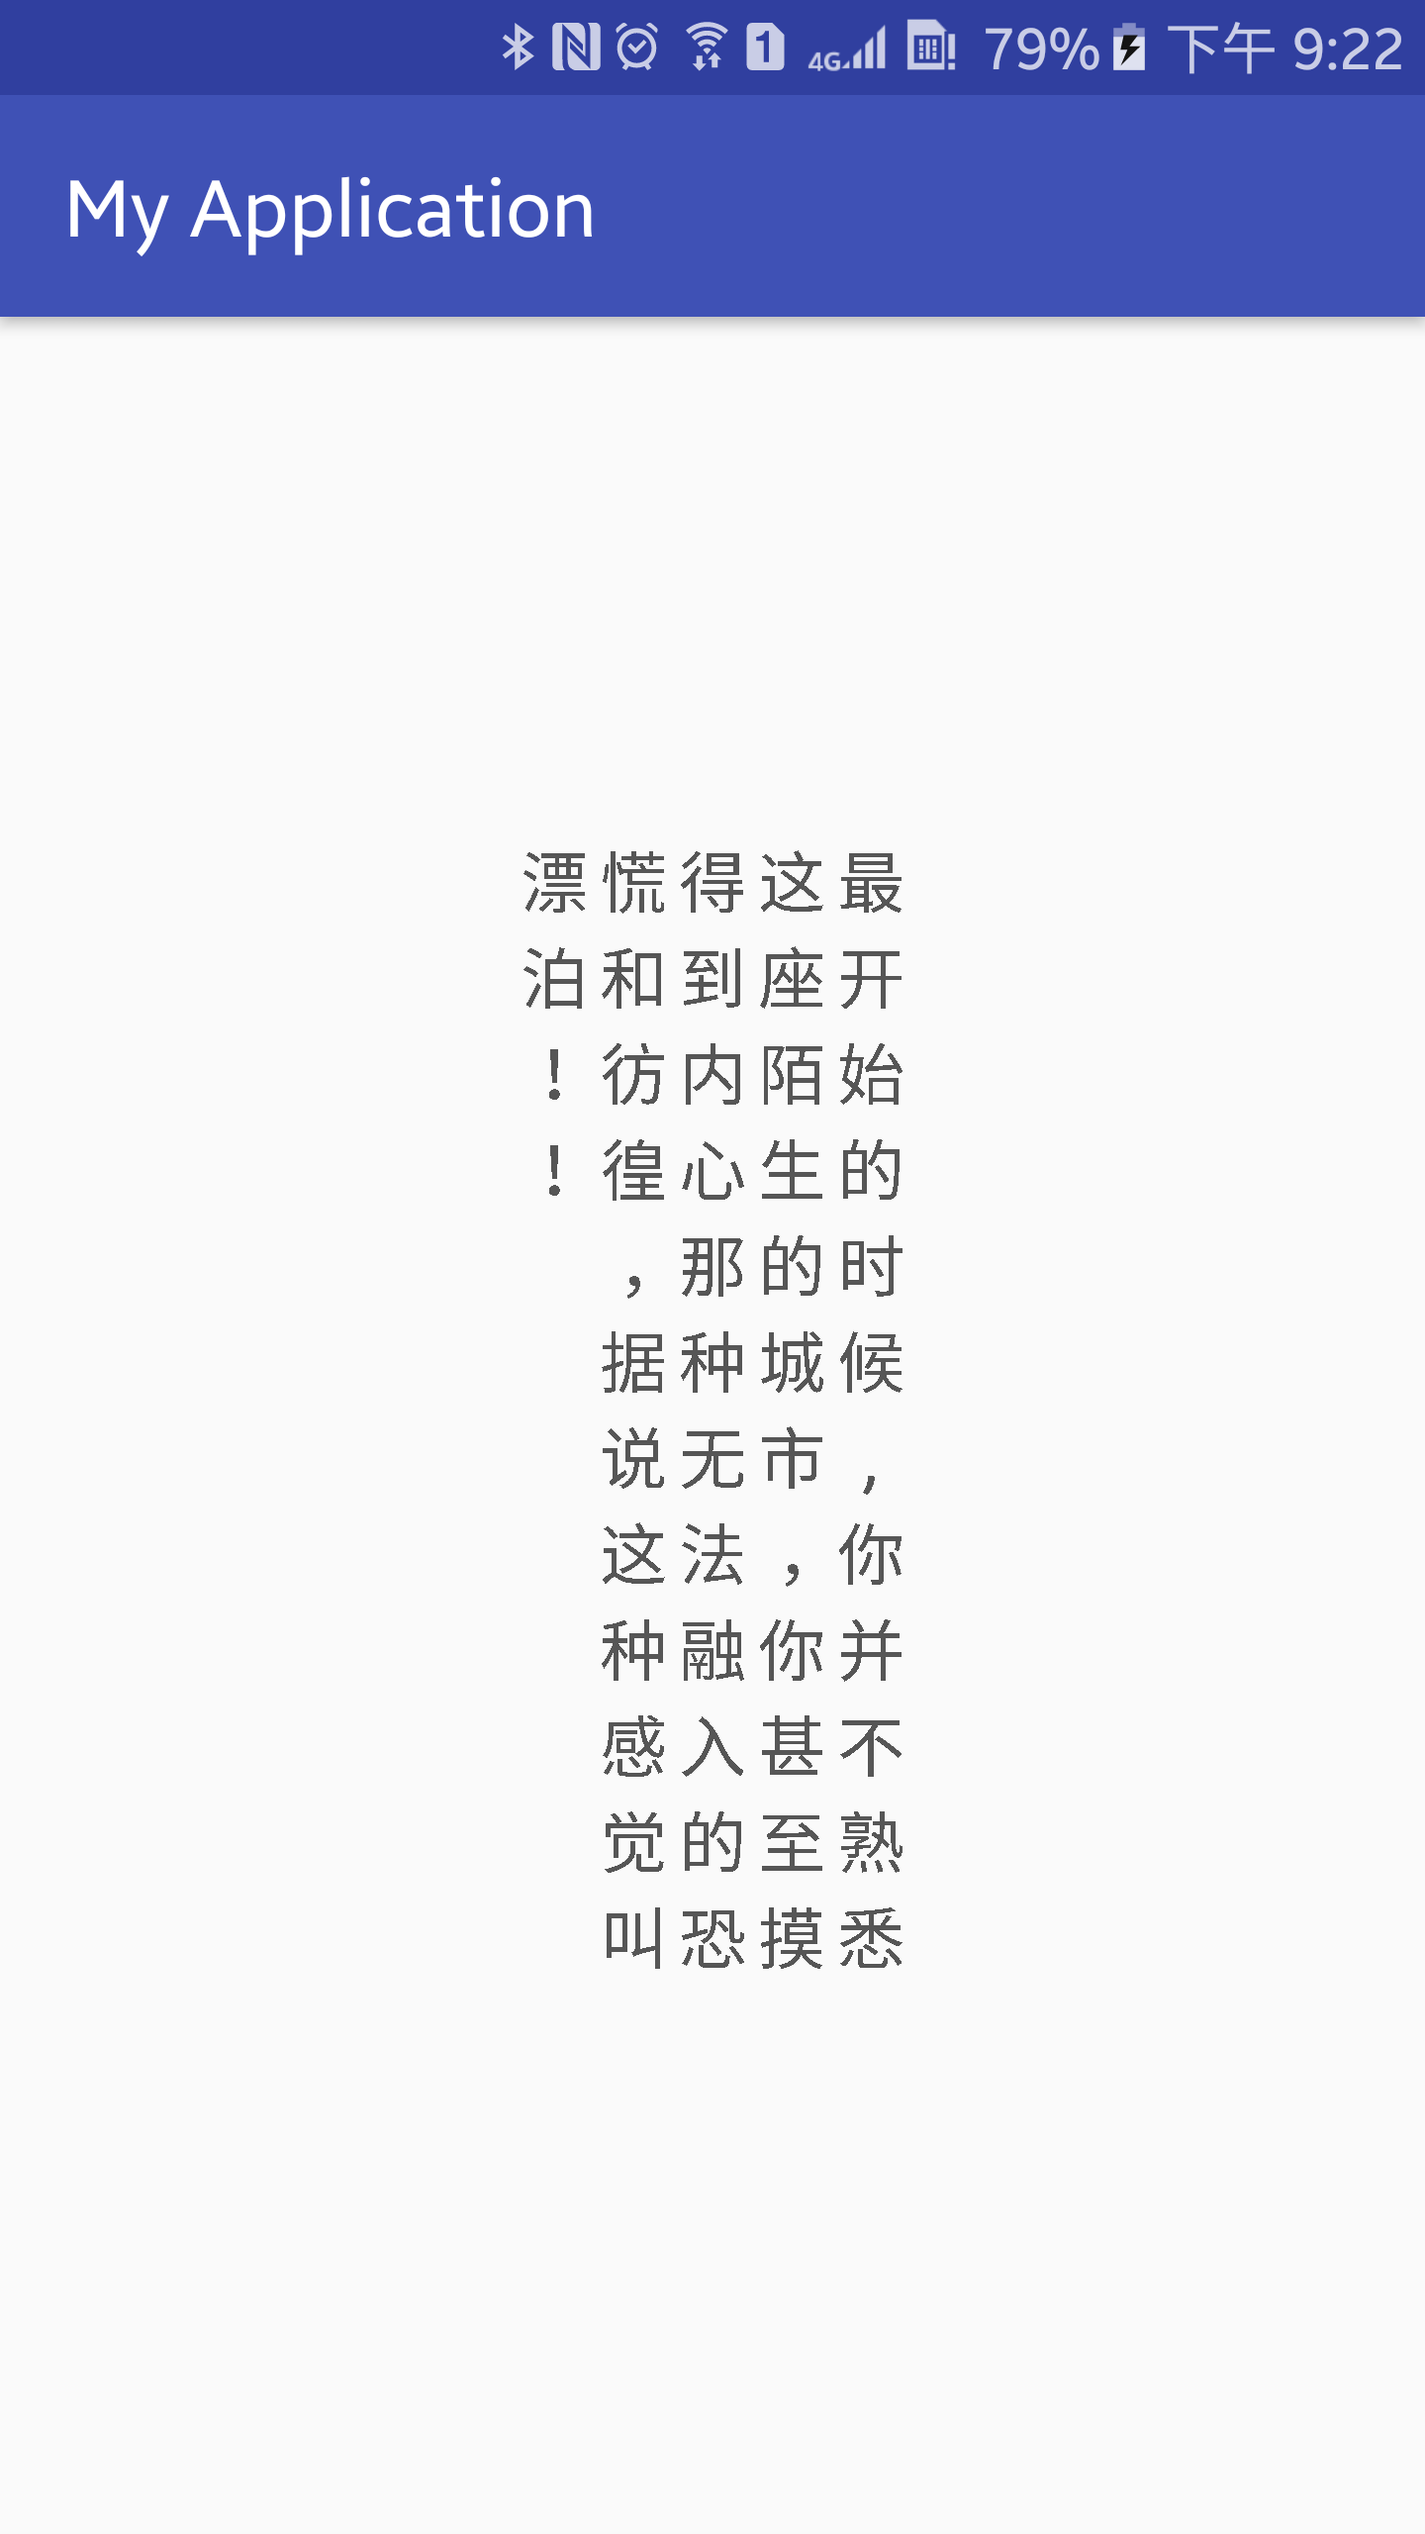
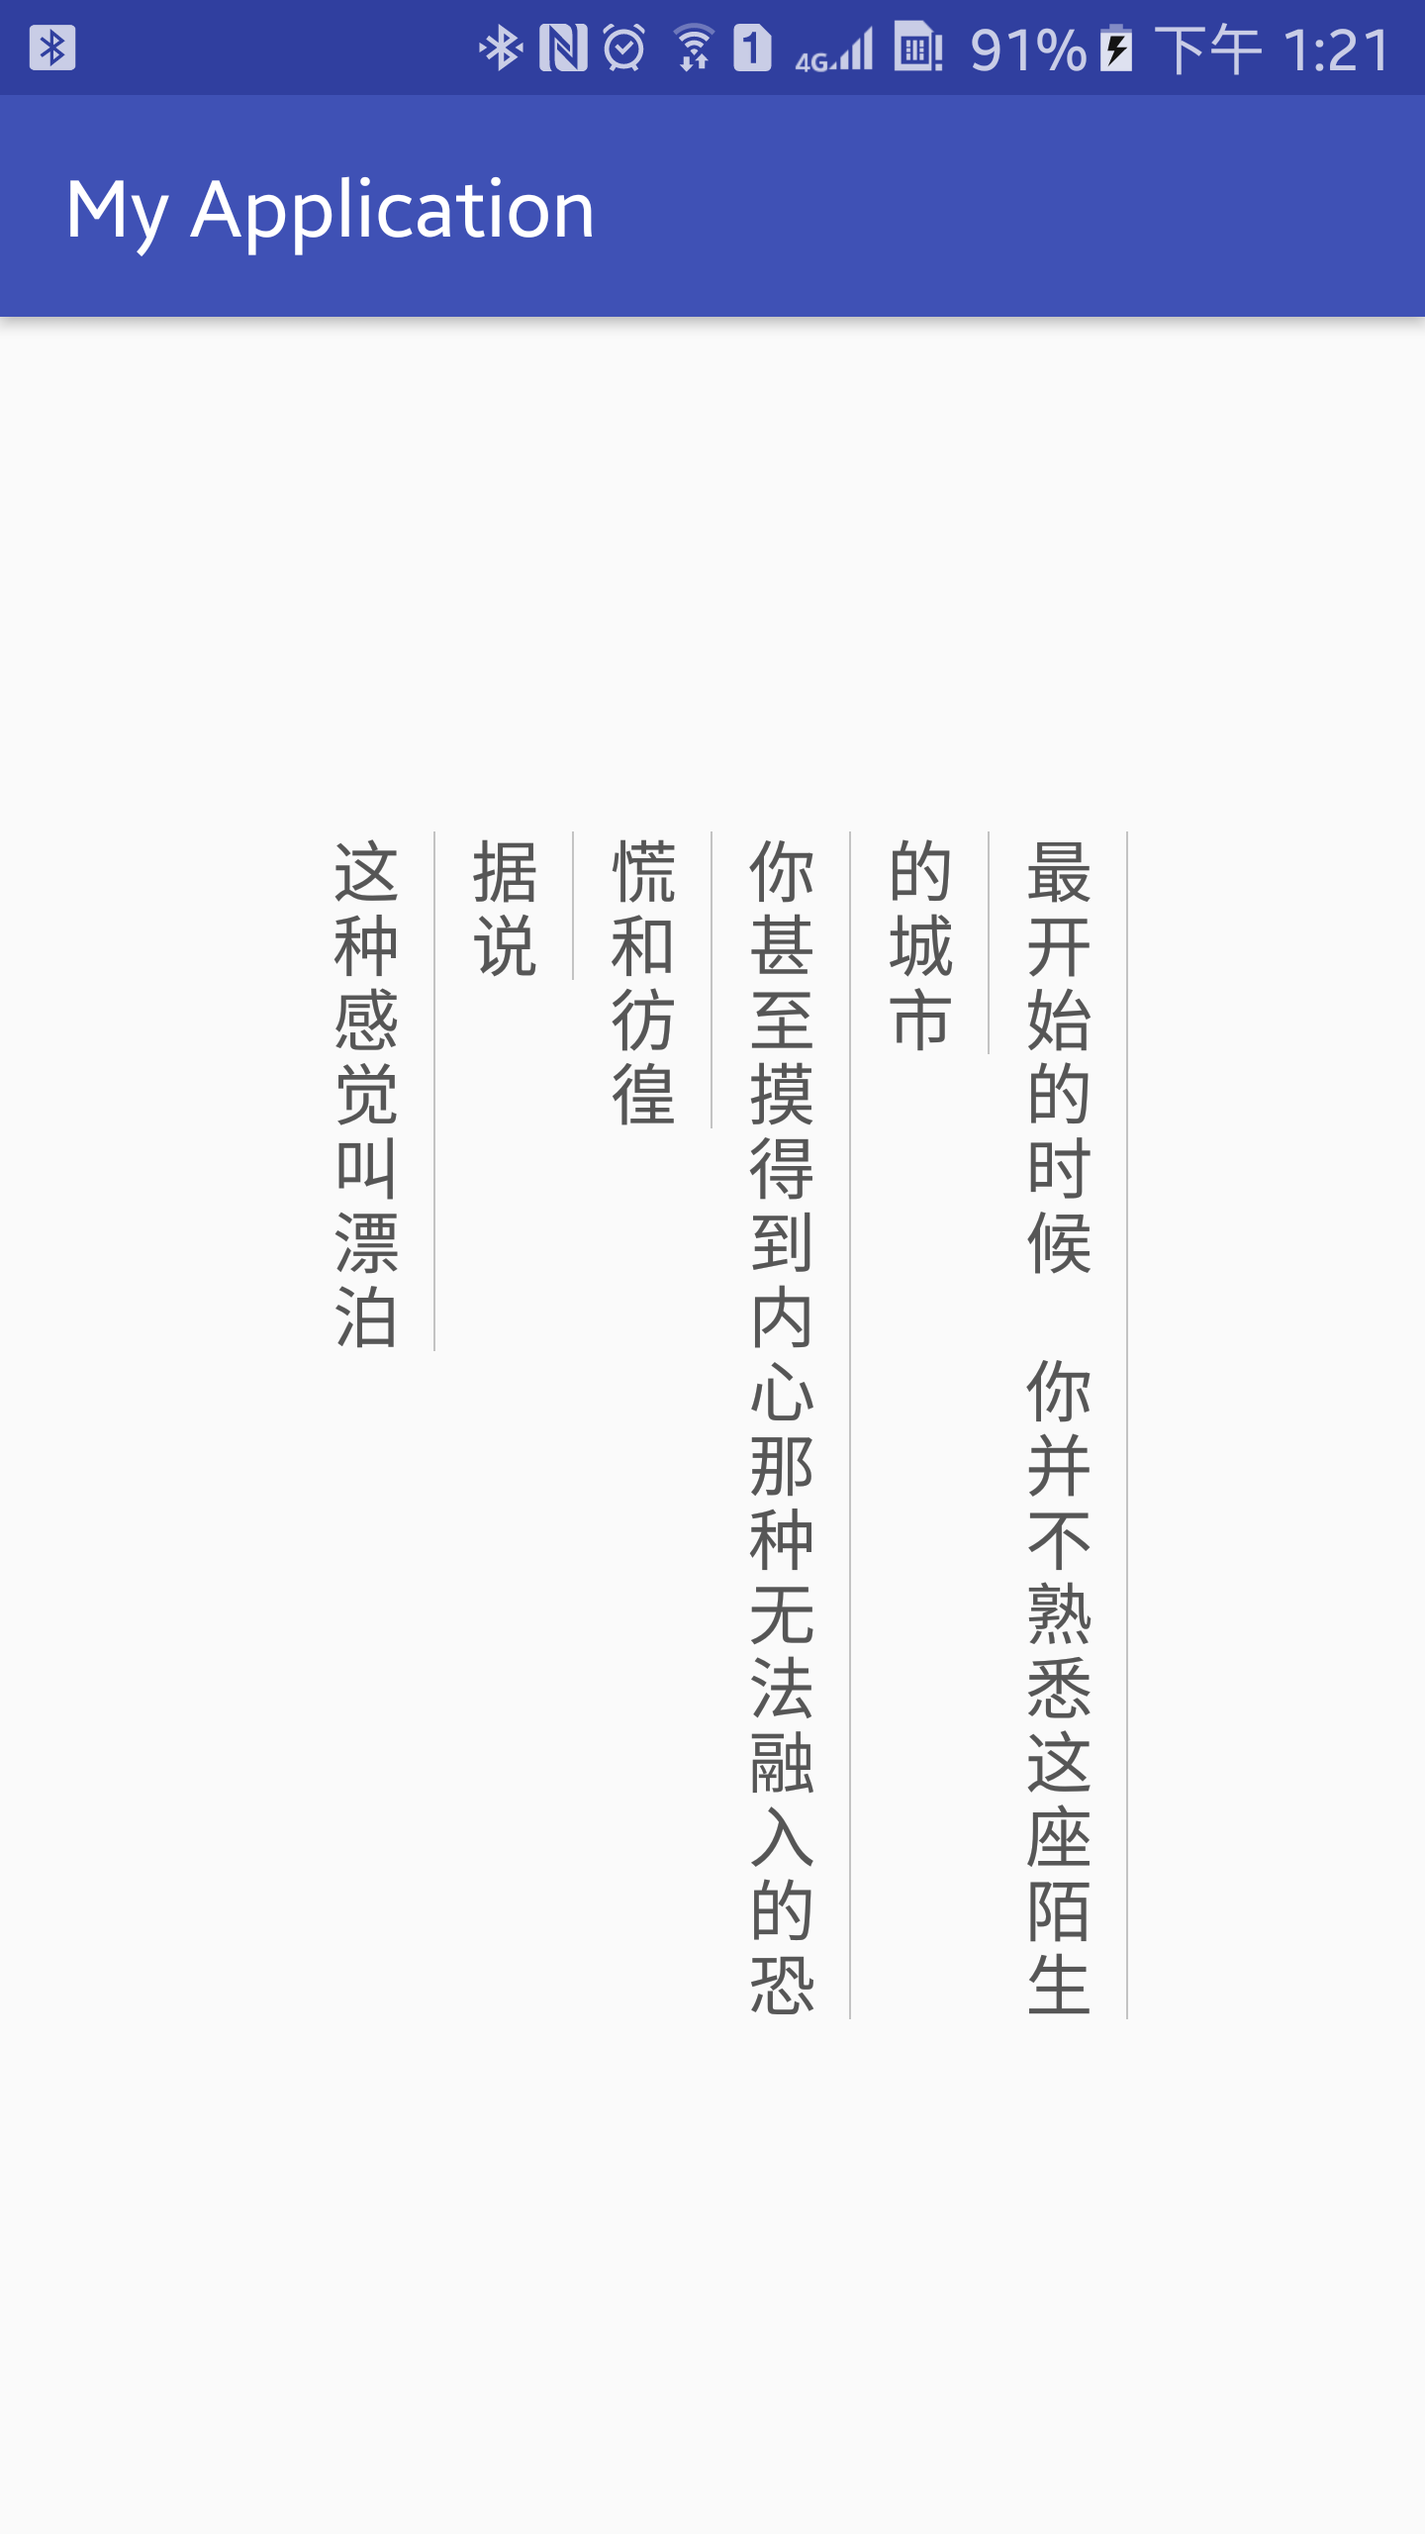
添加文字边线和分隔符功能

diff --git a/verticaltextviewlibrary/src/main/java/com/tenny/mystory/TextViewVertical.java b/verticaltextviewlibrary/src/main/java/com/tenny/mystory/TextViewVertical.java
@@ -1,10 +1,12 @@
-package com.tenny.mystory;
+package com.tenny.mystory;
 
 import android.content.Context;
 import android.content.res.TypedArray;
 import android.graphics.Canvas;
 import android.graphics.Color;
 import android.graphics.Paint;
+import android.graphics.Path;
+import android.graphics.Rect;
 import android.graphics.RectF;
 import android.graphics.Typeface;
 import android.support.annotation.IntDef;
@@ -14,21 +16,39 @@ import android.view.View;
 
 import java.lang.annotation.Retention;
 import java.lang.annotation.RetentionPolicy;
+import java.util.Arrays;
 
 public class TextViewVertical extends View {
 
     public static final int START_LEFT = 1;
     public static final int START_RIGHT = 2;
 
+    public static final int NONE = 0;
+    public static final int RIGHT_LINE = 2;
+    public static final int LEFT_LINE = 1;
+
+
     @IntDef({START_LEFT, START_RIGHT})
     @Retention(RetentionPolicy.SOURCE)
     public @interface START_ORIENTATION {
     }
 
+    @IntDef({NONE, RIGHT_LINE, LEFT_LINE})
+    @Retention(RetentionPolicy.SOURCE)
+    public @interface LINE_ORIENTATION {
+    }
+
     private float textSize = 56;
     private int textColor = Color.BLACK;
     private String text = "";
-    private int start = START_LEFT;
+    private int startOrientation = START_LEFT;
+    private int lineOrientation = NONE;
+    private float lineWidth = dip2px(getContext(), 0.5f);
+    private int lineColor = Color.BLACK;
+    private String cutChars;
+    private float textHorizontalMargin = dip2px(getContext(), 4);
+    private float textVerticalMargin = dip2px(getContext(), 3);
+    private float line2TextMargin = -1;
 
     Paint paint;
     int width;
@@ -41,18 +61,33 @@ public class TextViewVertical extends View {
 
     public TextViewVertical(Context context, AttributeSet attrs) {
         super(context, attrs);
+
         TypedArray typedArray = context.obtainStyledAttributes(attrs, R.styleable.TextViewVertical);
         int count = typedArray.getIndexCount();
         for (int i = 0; i < count; i++) {
             int index = typedArray.getIndex(i);
             if (index == R.styleable.TextViewVertical_v_start) {
-                start = typedArray.getInt(index, START_LEFT);
+                startOrientation = typedArray.getInt(index, START_LEFT);
             } else if (index == R.styleable.TextViewVertical_v_text) {
                 text = typedArray.getString(index);
             } else if (index == R.styleable.TextViewVertical_v_textColor) {
                 textColor = typedArray.getColor(index, Color.BLACK);
             } else if (index == R.styleable.TextViewVertical_v_textSize) {
                 textSize = typedArray.getDimension(index, 16);
+            } else if (index == R.styleable.TextViewVertical_v_cutChars) {
+                cutChars = typedArray.getString(index);
+            } else if (index == R.styleable.TextViewVertical_v_textVerticalMargin) {
+                textVerticalMargin = typedArray.getDimension(index, textVerticalMargin);
+            } else if (index == R.styleable.TextViewVertical_v_textHorizontalMargin) {
+                textHorizontalMargin = typedArray.getDimension(index, textHorizontalMargin);
+            } else if (index == R.styleable.TextViewVertical_v_line) {
+                lineOrientation = typedArray.getInt(index, NONE);
+            } else if (index == R.styleable.TextViewVertical_v_lineWidth) {
+                lineWidth = typedArray.getDimension(index, lineWidth);
+            } else if (index == R.styleable.TextViewVertical_v_lineColor) {
+                lineColor = typedArray.getColor(index, Color.BLACK);
+            } else if (index == R.styleable.TextViewVertical_v_line2TextMargin) {
+                line2TextMargin = textHorizontalMargin / 2 + lineWidth / 2 - typedArray.getDimension(index, 0);
             }
         }
         init();
@@ -84,8 +119,49 @@ public class TextViewVertical extends View {
         setMeasuredDimension(width, height);
     }
 
+    public void setLine2TextMargin(float line2TextMargin) {
+
+        this.line2TextMargin = textHorizontalMargin / 2 + lineWidth / 2 - line2TextMargin;
+        invalidate();
+    }
+
+    public void setStartOrientation(@LINE_ORIENTATION int startOrientation) {
+        this.startOrientation = startOrientation;
+        invalidate();
+    }
+
+    public void setLineWidth(float lineWidth) {
+        this.lineWidth = lineWidth;
+        invalidate();
+    }
+
+    public void setLineColor(int lineColor) {
+        this.lineColor = lineColor;
+        invalidate();
+    }
+
     public void setTypeface(Typeface typeface) {
         paint.setTypeface(typeface);
+        invalidate();
+    }
+
+    public void setTextHorizontalMargin(float textHorizontalMargin) {
+        this.textHorizontalMargin = textHorizontalMargin;
+        invalidate();
+    }
+
+    public void setTextVerticalMargin(float textVerticalMargin) {
+        this.textVerticalMargin = textVerticalMargin;
+        invalidate();
+    }
+
+    public void setLineOrientation(@LINE_ORIENTATION int lineOrientation) {
+        this.lineOrientation = lineOrientation;
+        invalidate();
+    }
+
+    public void setCutChars(String cutChars) {
+        this.cutChars = cutChars;
         invalidate();
     }
 
@@ -122,10 +198,10 @@ public class TextViewVertical extends View {
     /**
      * 设置文字起始方向
      *
-     * @param start
+     * @param startOrientation
      */
-    public void setStart(@START_ORIENTATION int start) {
-        this.start = start;
+    public void setStart(@START_ORIENTATION int startOrientation) {
+        this.startOrientation = startOrientation;
         invalidate();
     }
 
@@ -176,27 +252,44 @@ public class TextViewVertical extends View {
 
     private int getColNum() {
 
-
         int oneRowWordCount = getColWordCount();
-
-        int colNum = text.length() / oneRowWordCount;
-        if (text.length() % oneRowWordCount > 0) {
-            colNum++;
+        int colNum = 0;
+        if (cutChars != null) {
+            String[] textArray = text.split(cutChars);
+            for (int i = 0; i < textArray.length; i++) {
+                if (textArray[i].length() > oneRowWordCount) {
+                    colNum += textArray[i].length() / oneRowWordCount;
+                    if (textArray[i].length() % oneRowWordCount > 0) {
+                        colNum++;
+                    }
+                } else {
+                    colNum++;
+                }
+            }
+        } else {
+            colNum = text.length() / oneRowWordCount;
+            if (text.length() % oneRowWordCount > 0) {
+                colNum++;
+            }
         }
+
+
         return colNum;
     }
 
     private float getOneWordWidth() {
-        return paint.measureText("我") + dip2px(getContext(), 3);
+        return paint.measureText(getResources().getString(R.string.word)) + textHorizontalMargin;
     }
 
     private float getOneWordHeight() {
-        Paint.FontMetricsInt metricsInt = paint.getFontMetricsInt();
-        return (metricsInt.bottom - metricsInt.top);
+       /* Paint.FontMetricsInt metricsInt = paint.getFontMetricsInt();
+        return (metricsInt.bottom - metricsInt.top);*/
+        Rect rect = new Rect();
+        paint.getTextBounds(getResources().getString(R.string.word), 0, 1, rect);
+        return rect.height() + textVerticalMargin;
     }
 
     private int getColWordCount() {
-
         int oneLineWordCount = (int) (height / getOneWordHeight());
         return oneLineWordCount;
     }
@@ -206,31 +299,84 @@ public class TextViewVertical extends View {
         return (int) (dpValue * scale + 0.5f);
     }
 
+
     @Override
     protected void onDraw(Canvas canvas) {
         super.onDraw(canvas);
         int oneLineWordCount = getColWordCount();
-        int currentCol = 0;
+
         float w = getOneWordWidth();
         float h = getOneWordHeight();
 
         int colNum = getColNum();
-        for (int i = 0; i < text.length(); i++) {
-            int j = i % oneLineWordCount;
-            if (colNum == 1) {
-                j = i;
+
+        String[] cutCharArray = cutChars == null ? null : cutChars.split("|");
+        if (cutCharArray != null) {
+            String[] textArray = text.split(cutChars);
+            int stepCol = 0;
+            for (int n = 0; n < textArray.length; n++) {
+                String text = textArray[n];
+                int currentCol = 0;
+                for (int i = 0; i < text.length(); i++) {
+                    String str = String.valueOf(text.charAt(i));
+                    int currentRow = i % oneLineWordCount;
+                    if (colNum == 1) {
+                        currentRow = i;
+                    }
+                    if (colNum > 1) {
+                        currentCol = stepCol + (i / oneLineWordCount);
+                    }
+                    drawText(w, h, currentCol, currentRow, str, canvas);
+                    if (i + 1 == text.length()) {
+                        stepCol = currentCol + 1;
+                    }
+                }
             }
-            RectF rectF;
-            if (start == START_LEFT) {
-                rectF = new RectF(currentCol * w, j * h, currentCol * w + w, j * h + h);
-            } else {
-                rectF = new RectF((width - (currentCol + 1) * w), j * h, (width - (currentCol + 1) * w) + w, j * h + h);
+        } else {
+            int currentCol = 0;
+            for (int i = 0; i < text.length(); i++) {
+                String str = String.valueOf(text.charAt(i));
+                int currentRow = i % oneLineWordCount;
+                if (colNum == 1) {
+                    currentRow = i;
+                }
+                if (colNum > 1) {
+                    currentCol = (i) / oneLineWordCount;
+                }
+                drawText(w, h, currentCol, currentRow, str, canvas);
+
             }
-            float baseline = getTextBaseLine(rectF);
-            canvas.drawText(String.valueOf(text.charAt(i)), rectF.centerX(), baseline, paint);
-            if (colNum > 1) {
-                currentCol = (i + 1) / oneLineWordCount;
-            }
+        }
+
+    }
+
+    private void drawText(float w, float h, int currentCol, int currentRow, String str, Canvas canvas) {
+        RectF rectF;
+        if (startOrientation == START_LEFT) {
+            rectF = new RectF(currentCol * w, currentRow * h, currentCol * w + w, currentRow * h + h);
+        } else {
+            rectF = new RectF((width - (currentCol + 1) * w), currentRow * h, (width - (currentCol + 1) * w) + w, currentRow * h + h);
+        }
+        float baseline = getTextBaseLine(rectF);
+        paint.setColor(textColor);
+        paint.setStyle(Paint.Style.FILL);
+        canvas.drawText(str, rectF.centerX(), baseline, paint);
+        paint.setColor(lineColor);
+        paint.setStyle(Paint.Style.STROKE);
+        paint.setStrokeWidth(lineWidth);
+        if (line2TextMargin == -1) {
+            line2TextMargin = lineWidth * 1f / 2;
+        }
+        if (lineOrientation == RIGHT_LINE) {
+            Path path = new Path();
+            path.moveTo(rectF.right - line2TextMargin, rectF.top);
+            path.lineTo(rectF.right - line2TextMargin, rectF.bottom);
+            canvas.drawPath(path, paint);
+        } else if (lineOrientation == LEFT_LINE) {
+            Path path = new Path();
+            path.moveTo(rectF.left + line2TextMargin, rectF.top);
+            path.lineTo(rectF.left + line2TextMargin, rectF.bottom);
+            canvas.drawPath(path, paint);
         }
     }
 }

diff --git a/README.md b/README.md
@@ -1,4 +1,4 @@
-##android上可文字垂直显示的textview，可以设置文字起始方向
+##android上可文字垂直显示的textview，可以设置文字起始方向,文字大小，文字换行符，文字边线，文字边线的方向等等。
 
 ![image](https://github.com/tenny1225/VerticalTextView/raw/master/image/m1.png)
 ###用法1
@@ -35,9 +35,14 @@
     <com.tenny.mystory.TextViewVertical
         android:layout_width="wrap_content"
         android:layout_height="300dp"
+        app:v_cutChars=",|;"
+        app:v_line="right"
+        app:v_lineColor="#5555"
+        app:v_lineWidth="0.5dp"
         app:v_start="right"
-        app:v_text="最开始的时候,你并不熟悉这座陌生的城市，你甚至摸得到内心那种无法融入的恐慌和彷徨，据说这种感觉叫漂泊！！"
+        app:v_text="最开始的时候 你并不熟悉这座陌生的城市,你甚至摸得到内心那种无法融入的恐慌和彷徨,据说,这种感觉叫漂泊"
         app:v_textColor="#565656"
+        app:v_textHorizontalMargin="18dp"
         app:v_textSize="18dp" />
 </LinearLayout>
 ```
